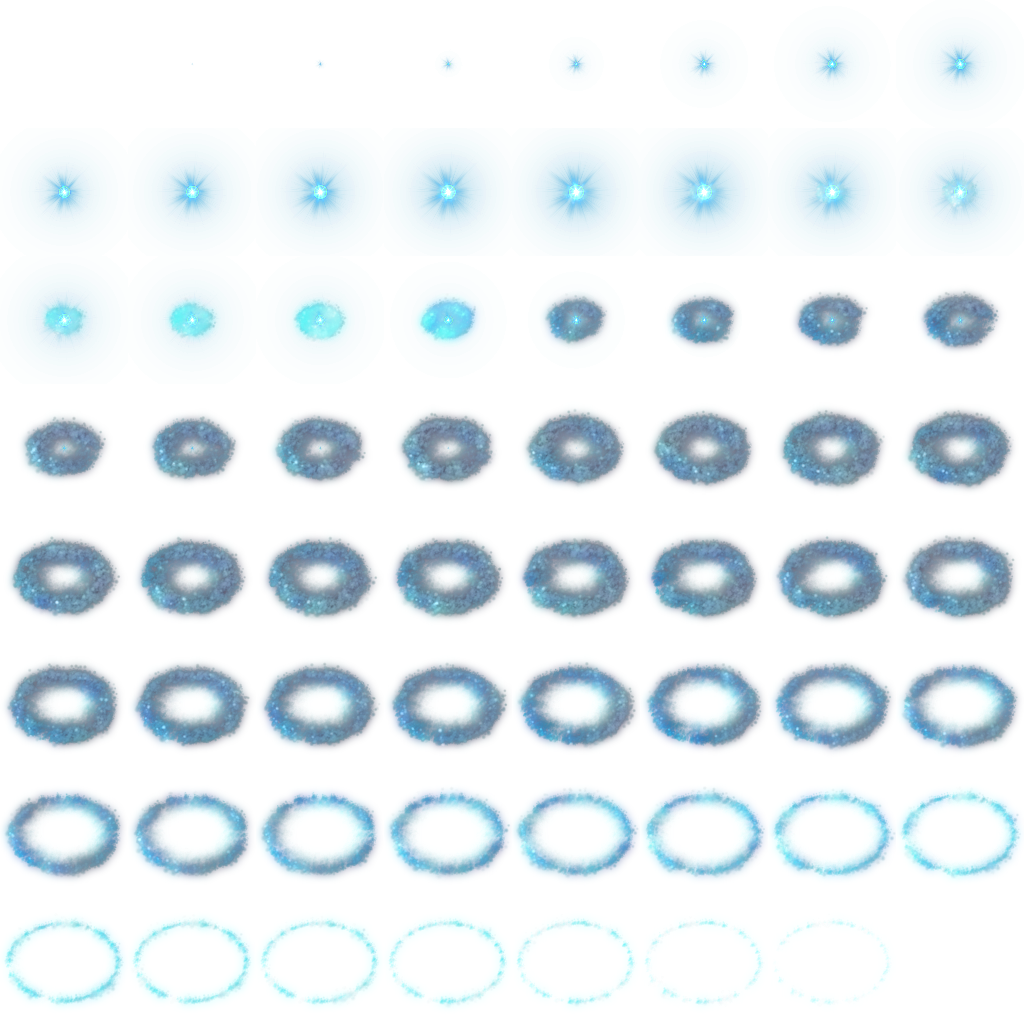
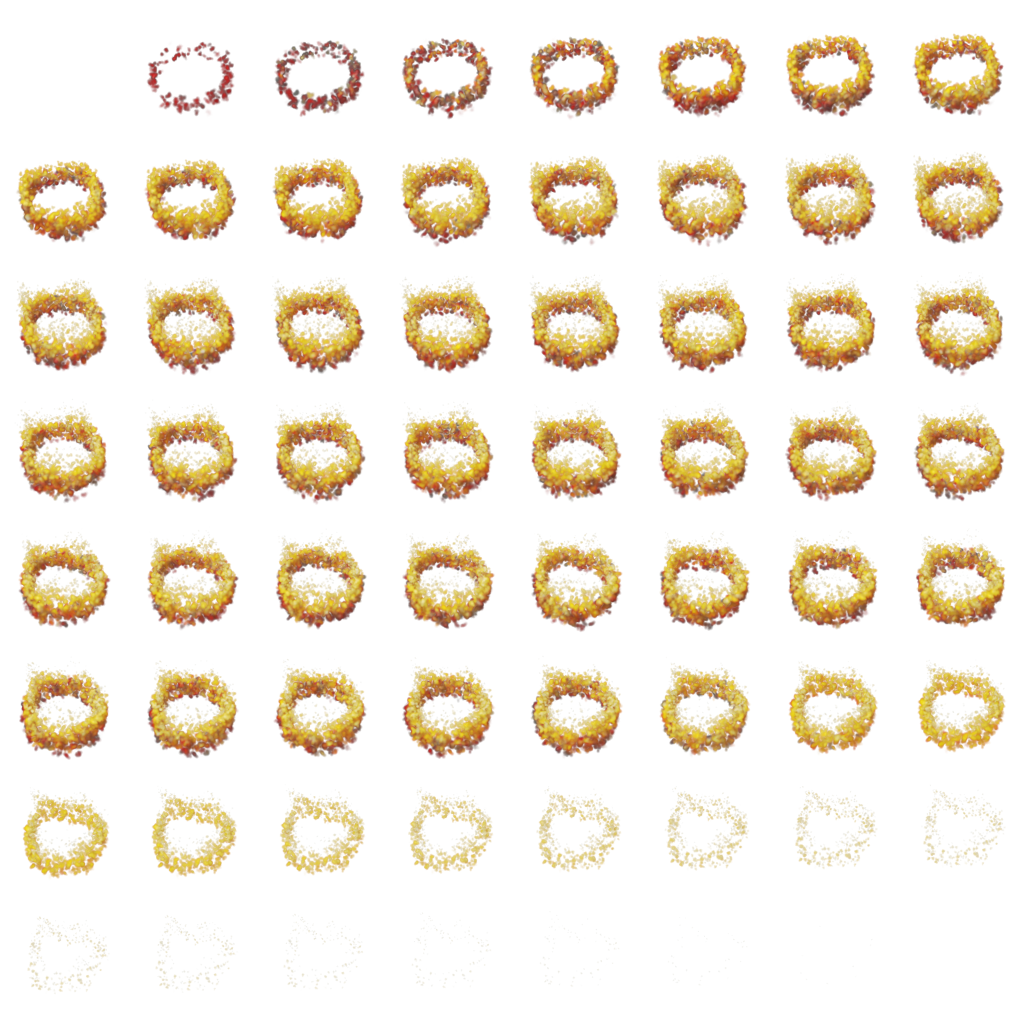
Changing Explosion Style

diff --git a/JS/game.js b/JS/game.js
@@ -532,7 +532,7 @@ class Bullet {
     }
 }
 
-const explosion_images = ['images/explosions/bird_explosion.png', 'images/explosions/rocket_explosion.png'];
+const explosion_image_paths = ['images/explosions/bird_explosion.png', 'images/explosions/rocket_explosion.png'];
 var explosions = [];
 
 class Explosion{
@@ -544,7 +544,7 @@ class Explosion{
         this.height = 80;
 
         this.explosionImage = new Image();
-        this.explosionImage.src = 'images/explosions/bird_explosion.png';
+        this.explosionImage.src = explosion_image_paths[type];
 
         this.currentFrame = 0;
         this.frameWidth = 128;
@@ -562,9 +562,6 @@ class Explosion{
         else{
             var imageOffsetX = (this.currentFrame % this.frameRows) * this.frameWidth;
             var imageOffsetY = Math.floor((this.currentFrame / this.framColumns)) * this.frameHight;
-            console.log("__________________________________-");
-            console.log(imageOffsetX);
-            console.log(imageOffsetY);
             artArea.drawImage(this.explosionImage , imageOffsetX, imageOffsetY, this.frameWidth, this.frameHight, this.currentX, this.currentY, this.width, this.height);
         }
     }
@@ -685,7 +682,8 @@ function detectBirdCollision() {
 //removing killed bird and the fire 
 function filtering() {
     birds = birds.filter(bird => (bird.alive && (!bird.crossed)));
-    bullets = bullets.filter(bullet => (!(bullet.hitBird) && (!bullet.crossed)))
+    bullets = bullets.filter(bullet => (!(bullet.hitBird) && (!bullet.crossed)));
+    explosions = explosions.filter(explosion => !explosion.done);
 }
 
 //creating new bird after 400ms
@@ -859,6 +857,7 @@ function startNewGame() {
 
     bullets = [];
     birds = [];
+    explosions = [];
 
     play = true;
     console.log("Game Started");
